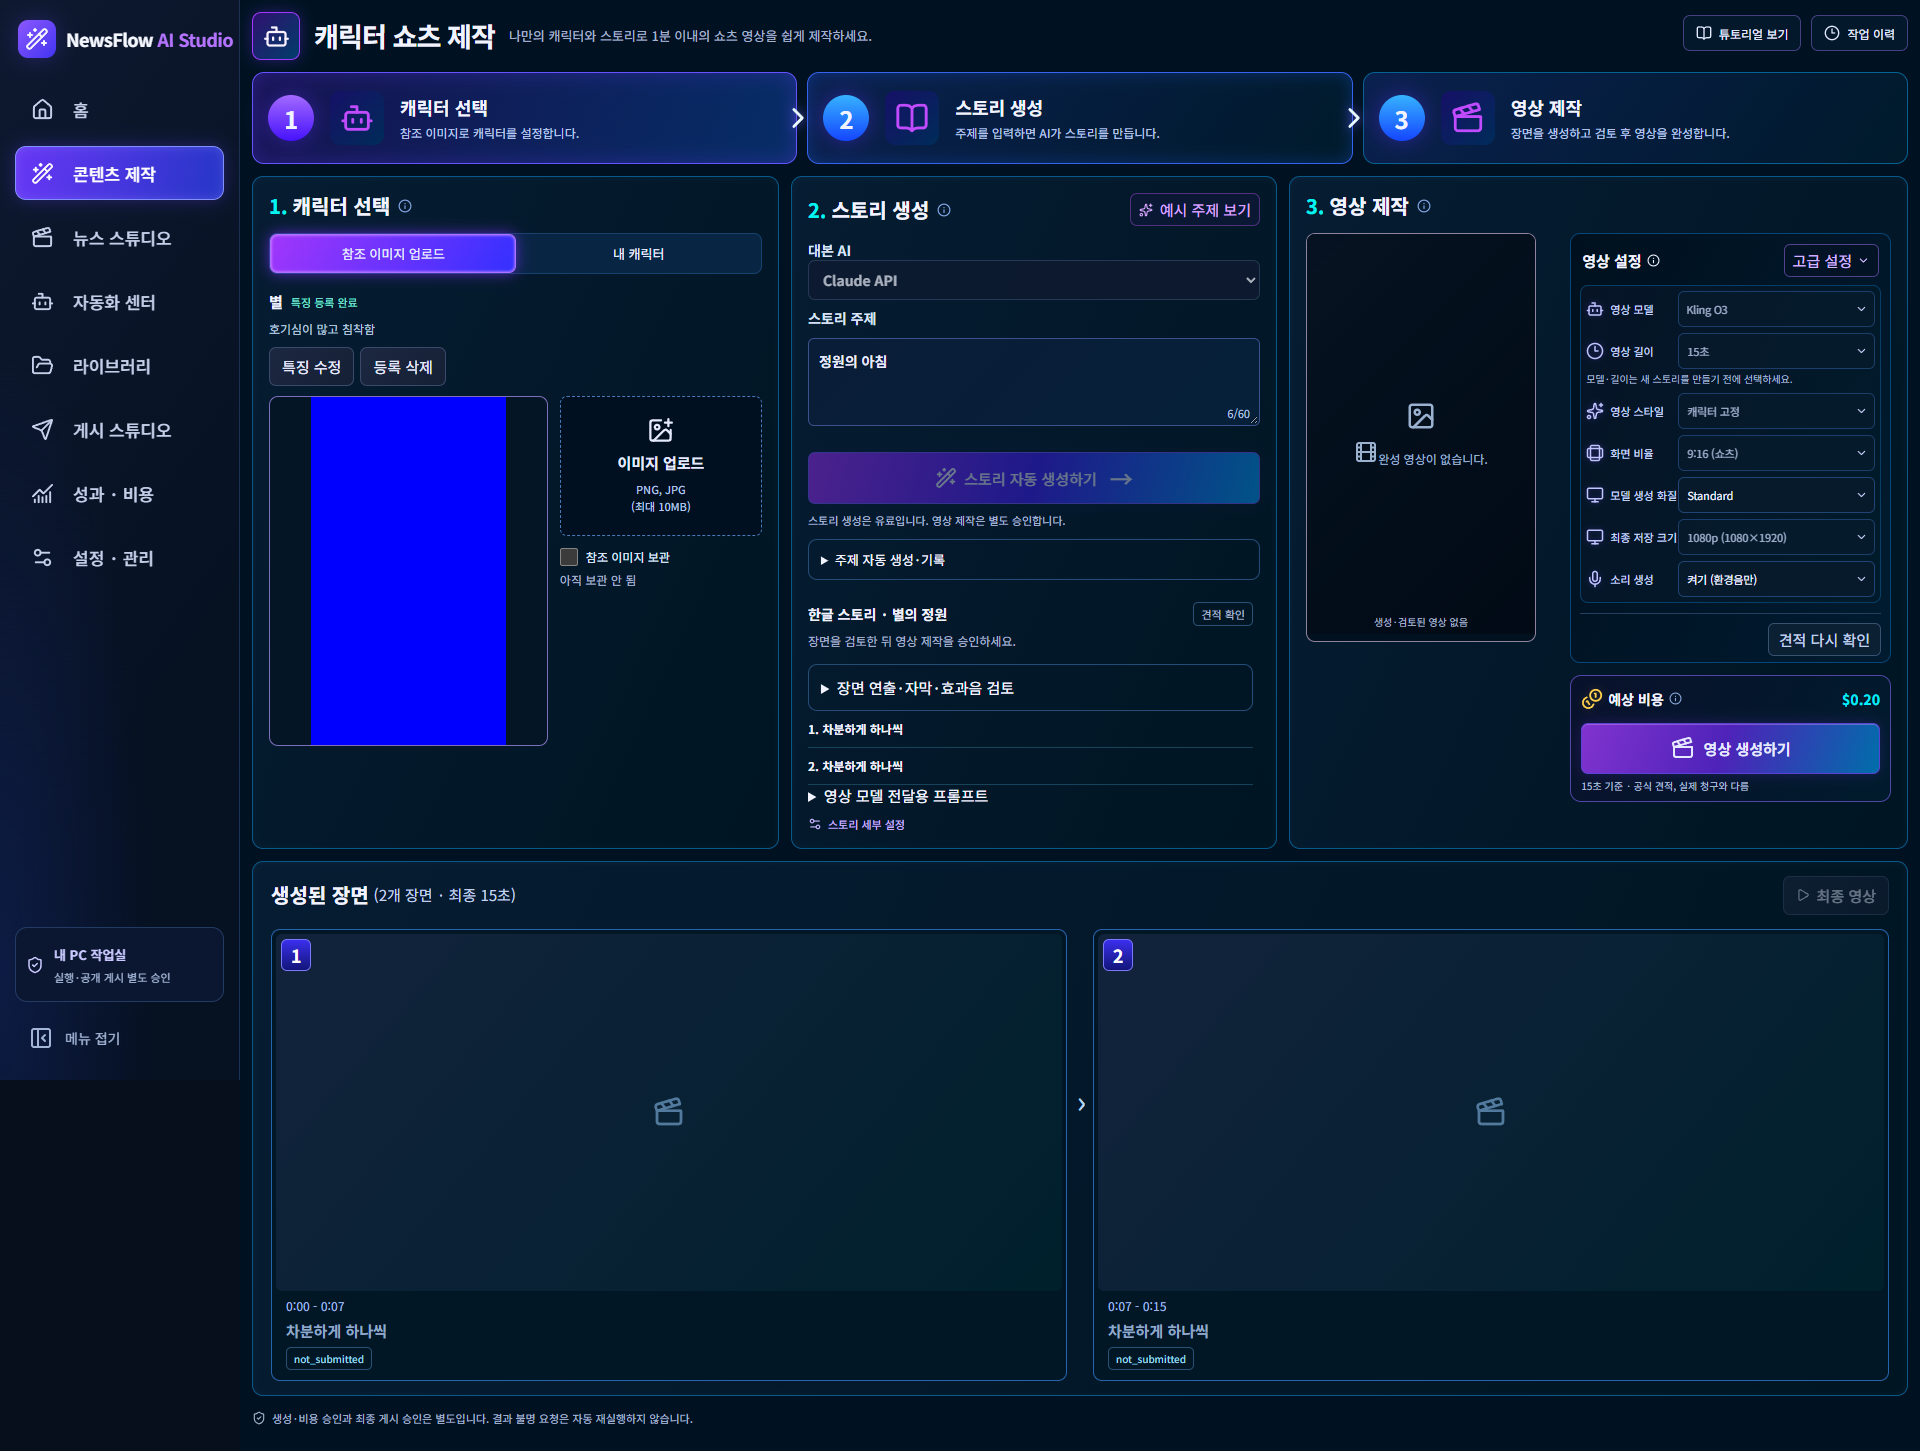
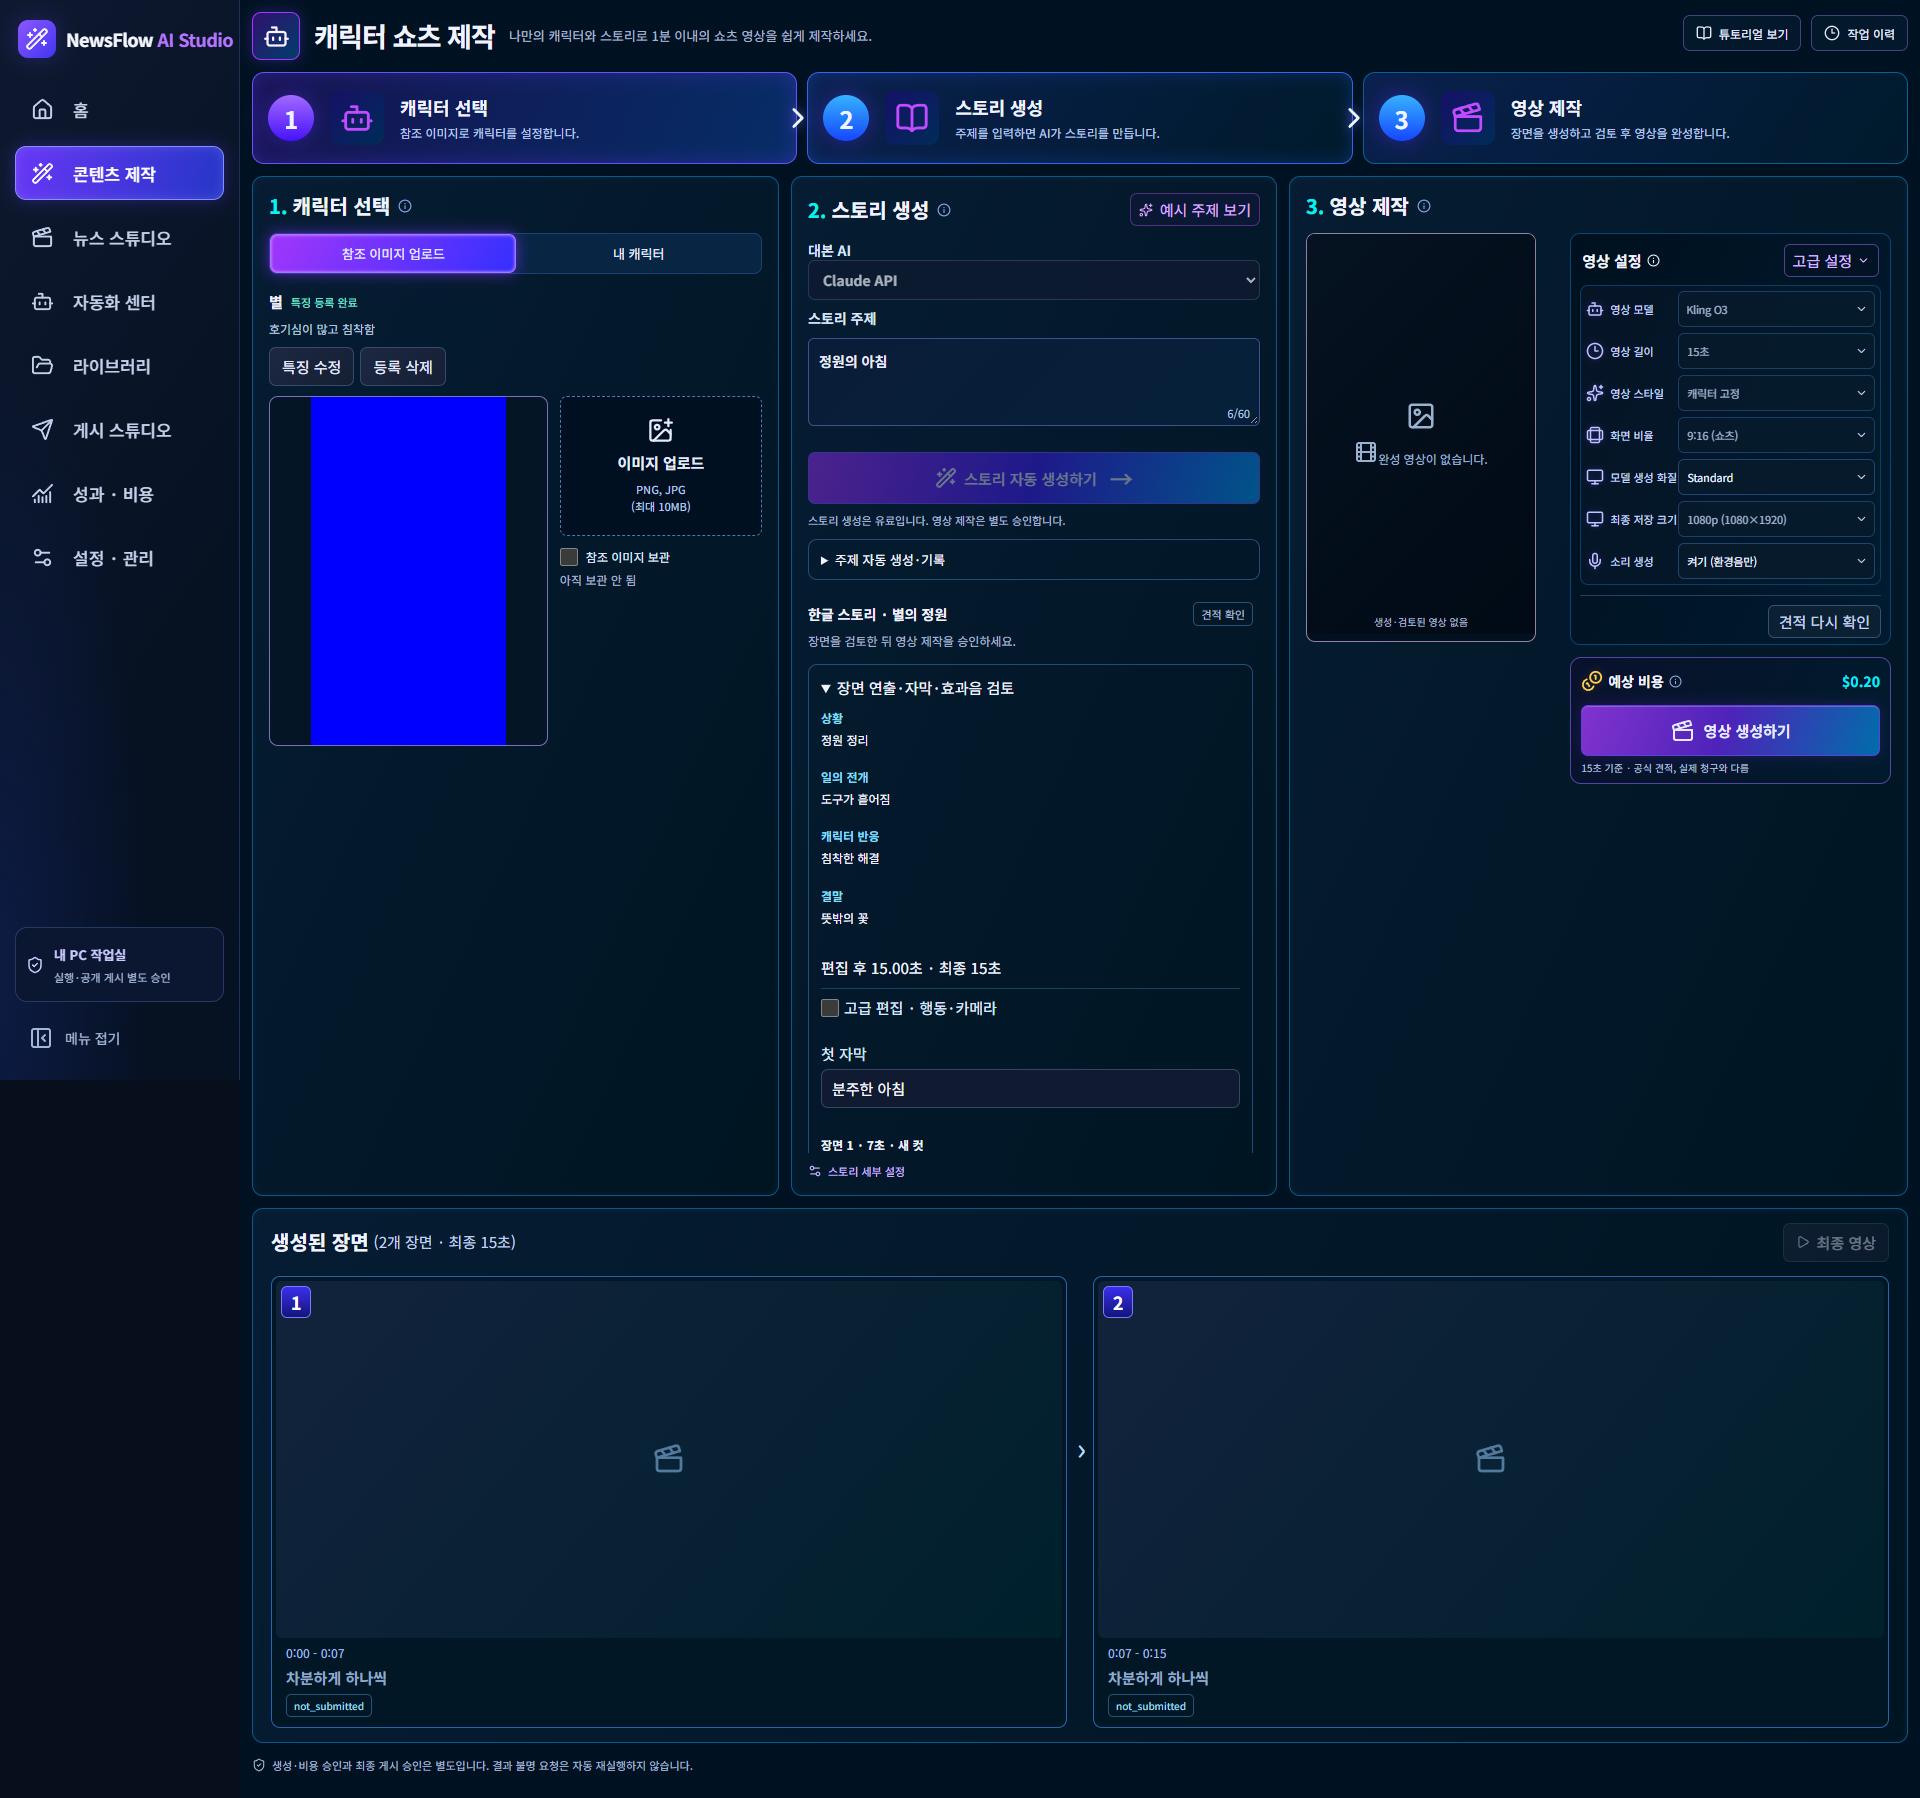
fix(character): derive topic usage and keep story review readable

diff --git a/newsflow-ai/frontend/src/studio/core/CharacterAutomation.tsx b/newsflow-ai/frontend/src/studio/core/CharacterAutomation.tsx
@@ -184,15 +184,15 @@ export function CharacterProfiles({ profiles, selected, onSelect, ensureAsset, m
     </CharacterModal>}
   </section>;
 }
-export function CharacterTopics({ profile, model, available, topic, onTopic, csrf, disabled, onBusy }: {
+export function CharacterTopics({ profile, model, available, topic, onTopic, csrf, disabled, onBusy, refreshKey }: {
   profile: Item | null; model: string; available: boolean; topic: string; onTopic: (value: string) => void;
-  csrf: string; disabled: boolean; onBusy: (value:boolean) => void;
+  csrf: string; disabled: boolean; onBusy: (value:boolean) => void; refreshKey?: string;
 }) {
   const [rows, setRows] = useState<Item[]>([]), [count, setCount] = useState(10);
   const [busy, setBusy] = useState(false), [error, setError] = useState("");
   const [consent, setConsent] = useState(false);
   const sending = useRef(false);
-  const topicStates: Record<string,string> = {new:"미사용",scripted:"대본 작성",produced:"영상 완료",skipped:"보류"};
+  const topicStates: Record<string,string> = {new:"미사용",script_requested:"스토리 요청",scripted:"대본 작성",produced:"영상 완료",skipped:"보류"};
   useEffect(() => {
     setRows([]); setError(""); setConsent(false); let active = true;
     if (profile) fetch(`/api/studio/characters/profiles/${profile.id}/topics`, { credentials: "same-origin" })
@@ -200,7 +200,7 @@ export function CharacterTopics({ profile, model, available, topic, onTopic, csr
       .then(data => {if (active) setRows(data.topics ?? []);})
       .catch(error => {if (active) setError(error.message);});
     return () => {active = false;};
-  }, [profile?.id]);
+  }, [profile?.id, refreshKey]);
   async function act(kind: "generate" | "manual") {
     if (!profile || sending.current || disabled) return;
     sending.current = true; setBusy(true); onBusy(true); setError("");

diff --git a/newsflow-ai/frontend/src/studio/core/CharacterStudio.tsx b/newsflow-ai/frontend/src/studio/core/CharacterStudio.tsx
@@ -1566,7 +1566,8 @@ export default function CharacterStudio({ c }: { c: Controller }) {
 
             <p className="kling-character-consent">스토리 생성은 유료입니다. 영상 제작은 별도 승인합니다.</p>
             <CharacterTopics onBusy={setAutomationBusy} profile={activeProfile} model={settings.script_model} available={scriptAvailable}
-              topic={topic} onTopic={setTopic} csrf={c.view?.csrfToken ?? ""} disabled={isBusy} />
+              topic={topic} onTopic={setTopic} csrf={c.view?.csrfToken ?? ""} disabled={isBusy} refreshKey={`${job?.id ?? ""}:${job?.state ?? ""}:${job?.script_hash ?? ""}`}
+                />
             {!ready && (
               <p role="status">
                 새 제작실 API 연결 확인 전 · 생성할 수 없습니다.
@@ -1724,7 +1725,7 @@ export default function CharacterStudio({ c }: { c: Controller }) {
                       unsupportedHint="이 모델은 전체 길이에 필요한 장면 길이를 지원하지 않아요."
                       hint={
                         job?.automation_version === 1 && story
-                          ? "모델·길이는 새 스토리를 만들기 전에 선택하세요."
+                          ? undefined
                           : legacyStoryTiming
                           ? "이 스토리의 길이는 변경할 수 없습니다."
                           : settingsFrozen

diff --git a/newsflow-ai/frontend/src/studio/core/character-studio.css b/newsflow-ai/frontend/src/studio/core/character-studio.css
@@ -1152,6 +1152,28 @@
 .core-studio[data-module="characters"] .character-regeneration { margin: 12px 0; padding: 12px; border: 1px solid #254c76; border-radius: 9px; }
 .core-studio[data-module="characters"] .character-regeneration fieldset { display: grid; gap: 10px; padding: 10px 0; border: 0; min-width: 0; }
 .core-studio[data-module="characters"] .character-regeneration .check { display: flex; align-items: flex-start; gap: 8px; }
+.core-studio[data-module="characters"] .character-script-editor > dl {
+  display: grid;
+  grid-template-columns: minmax(0, 1fr);
+  gap: 8px;
+  width: 100%;
+  min-width: 0;
+}
+.core-studio[data-module="characters"] .character-script-editor > dl > div {
+  display: block;
+  min-width: 0;
+  width: auto;
+  grid-column: auto;
+}
+.core-studio[data-module="characters"] .character-script-editor > dl dt,
+.core-studio[data-module="characters"] .character-script-editor > dl dd {
+  width: auto;
+  max-width: 100%;
+  white-space: normal;
+  writing-mode: horizontal-tb;
+  word-break: keep-all;
+  line-height: 1.6;
+}
 .core-studio[data-module="characters"] .character-script-editor dt { font-weight: 700; color: #82dcf4; }
 .core-studio[data-module="characters"] .character-script-editor dd { margin: 3px 0 10px; overflow-wrap: anywhere; }
 /* Character registration is a modal; the approved three-panel workspace stays compact. */

diff --git a/newsflow-ai/tests/test_character_topic_usage.py b/newsflow-ai/tests/test_character_topic_usage.py
@@ -1,0 +1,37 @@
+from copy import deepcopy
+from types import SimpleNamespace
+from newsflow.character.topics import TopicStore
+from newsflow.character.service import fingerprint
+from test_character_automation_routes import gui,profile
+import json
+
+def test_existing_single_episode_usage_is_readonly_and_isolated(tmp_path):
+    store=TopicStore(tmp_path);a='char_'+'a'*32;b='char_'+'b'*32
+    first=store.add(a,'작은 정원');store.add(a,'처음 쓰는 주제');store.add(b,'작은 정원')
+    path=store._path(a);before=path.read_bytes()
+    script={'title':'합성 스토리'}
+    jobs=[{'character_id':a,'topic':'  작은  정원 ','script':script,'script_hash':fingerprint(script),'state':'quoted'},
+          {'character_id':b,'topic':'처음 쓰는 주제','script':script,'script_hash':fingerprint(script),'state':'completed','output':{'sha256':'a'*64}}]
+    rows=store.with_usage(a,jobs)
+    assert [r['status'] for r in rows]==['scripted','new']
+    assert path.read_bytes()==before and store.list(a)[0]['status']=='new'
+    assert store.with_usage(b,jobs)[0]['status']=='new'
+
+def test_attempt_is_not_unused_or_false_completion(tmp_path):
+    store=TopicStore(tmp_path);a='char_'+'a'*32;store.add(a,'작은 정원')
+    job={'character_id':a,'topic':'작은 정원','script_attempts':1,'state':'script_failed'}
+    assert store.with_usage(a,[job])[0]['status']=='script_requested'
+    job.update(script={'title':'합성'},script_hash='wrong',state='completed',output={'sha256':'a'*64})
+    assert store.with_usage(a,[job])[0]['status']=='script_requested'
+    job['script_hash']=fingerprint(job['script'])
+    assert store.with_usage(a,[job])[0]['status']=='produced'
+
+def test_topic_get_projects_job_without_writes_or_provider(gui):
+    saved=gui.post('/api/studio/characters/profiles/save',profile=json.dumps(profile()),asset=gui.asset).json()
+    store=TopicStore(gui.root);store.add(saved['id'],'작은 정원')
+    script={'title':'합성'};jobs=[{'character_id':saved['id'],'topic':'작은 정원','script':script,'script_hash':fingerprint(script)}]
+    gui.app.state.character=SimpleNamespace(listing=lambda:deepcopy(jobs))
+    before=store._path(saved['id']).read_bytes()
+    response=gui.client.get('/api/studio/characters/profiles/'+saved['id']+'/topics')
+    assert response.status_code==200 and response.json()['topics'][0]['status']=='scripted'
+    assert store._path(saved['id']).read_bytes()==before

diff --git a/newsflow-ai/tests/test_character_topics_simple_browser.py b/newsflow-ai/tests/test_character_topics_simple_browser.py
@@ -67,6 +67,7 @@ def open_topics(page, origin, data):
 def context_for(browser, origin):
     context = browser.new_context(viewport={'width': 1366, 'height': 768})
     context.route('**/*', lambda route: route.continue_() if route.request.url.startswith(origin + '/') else route.abort())
+    context.route('**/api/studio/characters/*/story-review', lambda route: route.fulfill(json={'ready':True,'review':{'token':'','count':0,'held_usd':'0'}}))
     return context
 
 
@@ -141,7 +142,7 @@ def test_one_selected_topic_uses_main_story_action_without_queue_requests(app, b
             expect(panel.locator(selector)).to_have_count(0)
         expect(panel.get_by_role('checkbox')).to_have_count(1)
         expect(panel.get_by_role('combobox')).to_have_count(0)
-        target = data['rows'][1]['topic']
+        target = data['rows'][0]['topic']
         panel.get_by_role('button', name=target, exact=True).click()
         expect(page.get_by_label('스토리 주제', exact=True)).to_have_value(target)
         expect(panel.get_by_role('button', name=target, exact=True)).to_have_attribute('aria-pressed', 'true')
@@ -152,6 +153,8 @@ def test_one_selected_topic_uses_main_story_action_without_queue_requests(app, b
         jobs = app.state.character.listing()
         assert len(jobs) == 1 and jobs[0]['topic'] == target and jobs[0]['state'] == 'script_review'
         assert len(data['fake'].script_calls) == 1 and not data['fake'].calls
+        selected_row=panel.locator('.character-topic-list > div').filter(has_text=target)
+        expect(selected_row.get_by_text('대본 작성',exact=True)).to_be_visible()
         expect(page.get_by_role('button', name='영상 견적 확인', exact=True)).to_be_enabled()
         posts = [r for r in requests if r.method == 'POST']
         assert len(posts) == 2 and posts[0].url.endswith('/character') and posts[1].url.endswith('/characters/auto-story')

diff --git a/newsflow-ai/src/newsflow/gui/character_automation_routes.py b/newsflow-ai/src/newsflow/gui/character_automation_routes.py
@@ -91,7 +91,8 @@ def profile_analyze(request: Request, asset: str = Form(..., max_length=80),
 def topics_list(request: Request, identifier: str):
     try:
         registry(request).get(identifier)
-        return {'topics': topics(request).list(identifier)}
+        service=getattr(request.app.state,'character',None)
+        return {'topics': topics(request).with_usage(identifier,service.listing() if service is not None else ())}
     except (ValueError, OSError, CharacterError, PublishingError):
         raise public_problem() from None
 
@@ -127,7 +128,8 @@ def topics_import(request: Request, identifier: str, content: str = Form(..., ma
     try:
         registry(request).get(identifier)
         topics(request).import_csv(identifier, content)
-        return {'topics': topics(request).list(identifier)}
+        service=getattr(request.app.state,'character',None)
+        return {'topics': topics(request).with_usage(identifier,service.listing() if service is not None else ())}
     except (ValueError, OSError, CharacterError, PublishingError):
         raise public_problem() from None
 
@@ -138,7 +140,8 @@ def topic_status(request: Request, identifier: str, topic_id: str,
     try:
         registry(request).get(identifier)
         topics(request).update_status(identifier, topic_id, status)
-        return {'topics': topics(request).list(identifier)}
+        service=getattr(request.app.state,'character',None)
+        return {'topics': topics(request).with_usage(identifier,service.listing() if service is not None else ())}
     except (ValueError, OSError, CharacterError, PublishingError):
         raise public_problem() from None
 

diff --git a/newsflow-ai/src/newsflow/character/topics.py b/newsflow-ai/src/newsflow/character/topics.py
@@ -84,6 +84,27 @@ class TopicStore:
             return rows
         except (OSError, ValueError, TypeError, KeyError): raise CharacterError() from None
 
+    def with_usage(self, character_id, jobs=()):
+        """Read projection only; historical single-episode use must not look unused."""
+        from newsflow.character.service import fingerprint
+        rank={'new':0,'script_requested':1,'scripted':2,'produced':3}
+        used={}
+        for job in jobs:
+            if job.get('character_id')!=character_id or not isinstance(job.get('topic'),str):continue
+            status='new'
+            if job.get('script_attempts',0)>0:status='script_requested'
+            script=job.get('script')
+            if isinstance(script,dict) and script and job.get('script_hash')==fingerprint(script):
+                status='produced' if job.get('state')=='completed' and job.get('output',{}).get('sha256') else 'scripted'
+            key=topic_key(job['topic'])
+            if rank[status]>rank.get(used.get(key,'new'),0):used[key]=status
+        rows=[]
+        for original in self.list(character_id):
+            row=dict(original);observed=used.get(topic_key(row['topic']),'new')
+            if rank.get(observed,0)>rank.get(row['status'],0):row['status']=observed
+            rows.append(row)
+        return rows
+
     def _save(self, character_id, rows):
         if len(rows) > 5000: raise CharacterError()
         atomic_json(self._path(character_id), {'version':1,'character_id':character_id,'topics':rows}, self.root)

diff --git a/newsflow-ai/tests/test_character_submit_layout_browser.py b/newsflow-ai/tests/test_character_submit_layout_browser.py
@@ -28,8 +28,11 @@ def test_quote_refresh_is_separate_and_notsent_has_clear_status(app,browser,monk
         expect(page.locator('.kling-settings-footer').get_by_role('button',name='견적 다시 확인',exact=True)).to_have_count(1)
         expect(production.get_by_role('button')).to_have_count(1)
         expect(production.get_by_role('button',name='영상 생성하기',exact=True)).to_be_visible()
+        page.get_by_text('장면 연출·자막·효과음 검토',exact=True).click()
         for width,height in ((1366,768),(1920,1080)):
             page.set_viewport_size({'width':width,'height':height})
+            widths=page.locator('.character-script-editor > dl > div').evaluate_all('(rows)=>rows.map(e=>e.getBoundingClientRect().width)')
+            assert len(widths)==4 and all(w>180 for w in widths)
             refresh.scroll_into_view_if_needed()
             box=refresh.bounding_box();assert box and box['height']<=40 and box['width']<220
             path=Path(r'C:/Codex/NewsFlowAI/character_automation_operating')/f'submit-layout-{width}x{height}.png'
